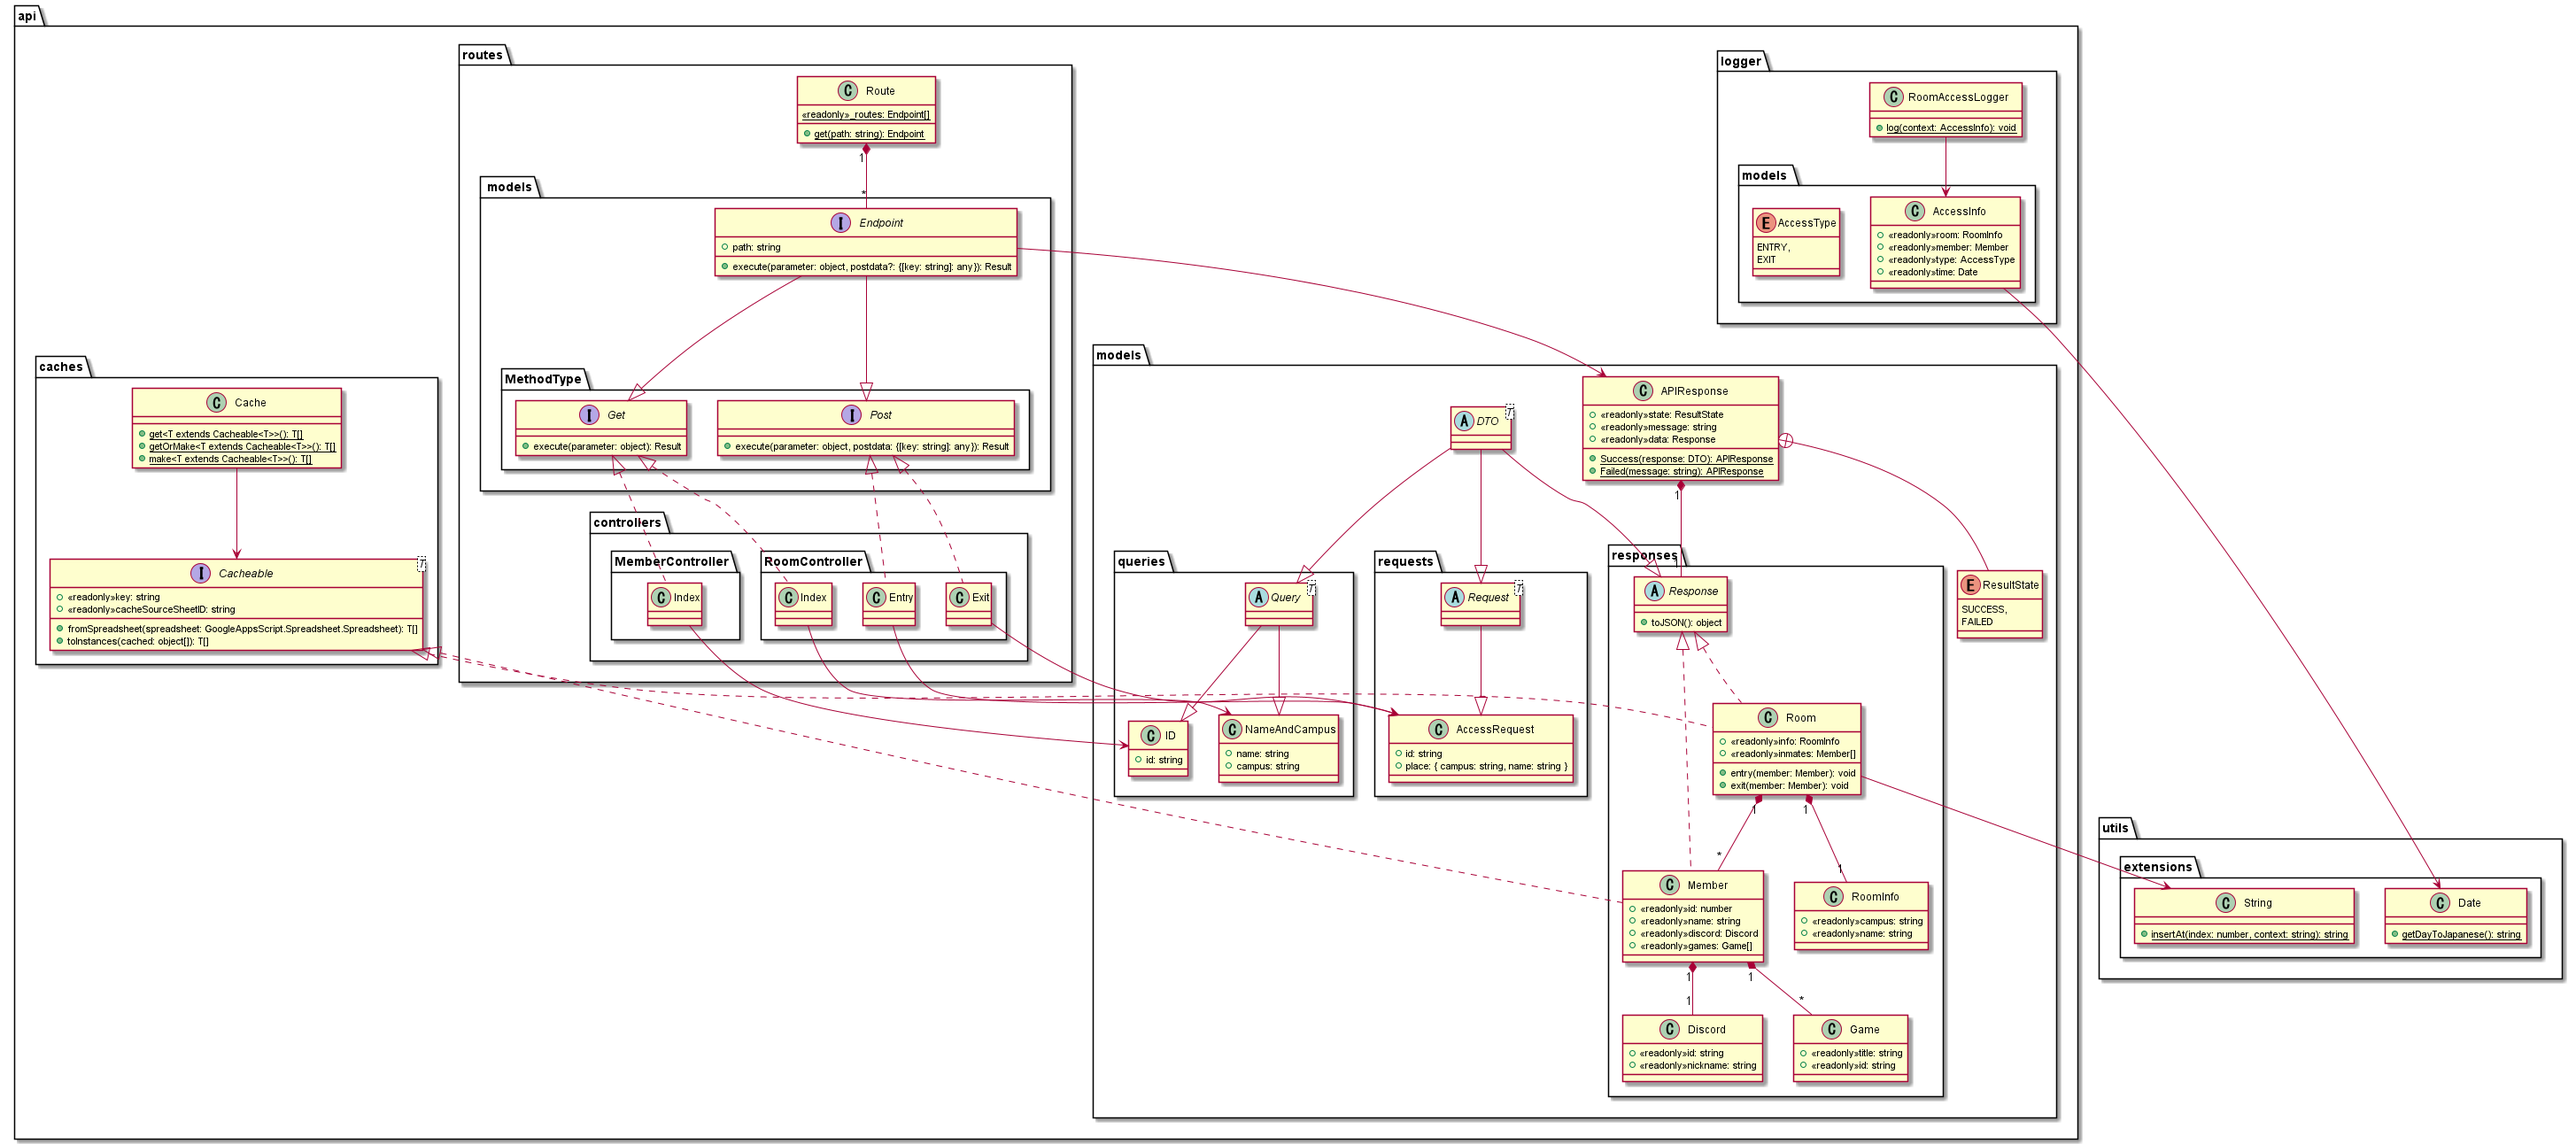
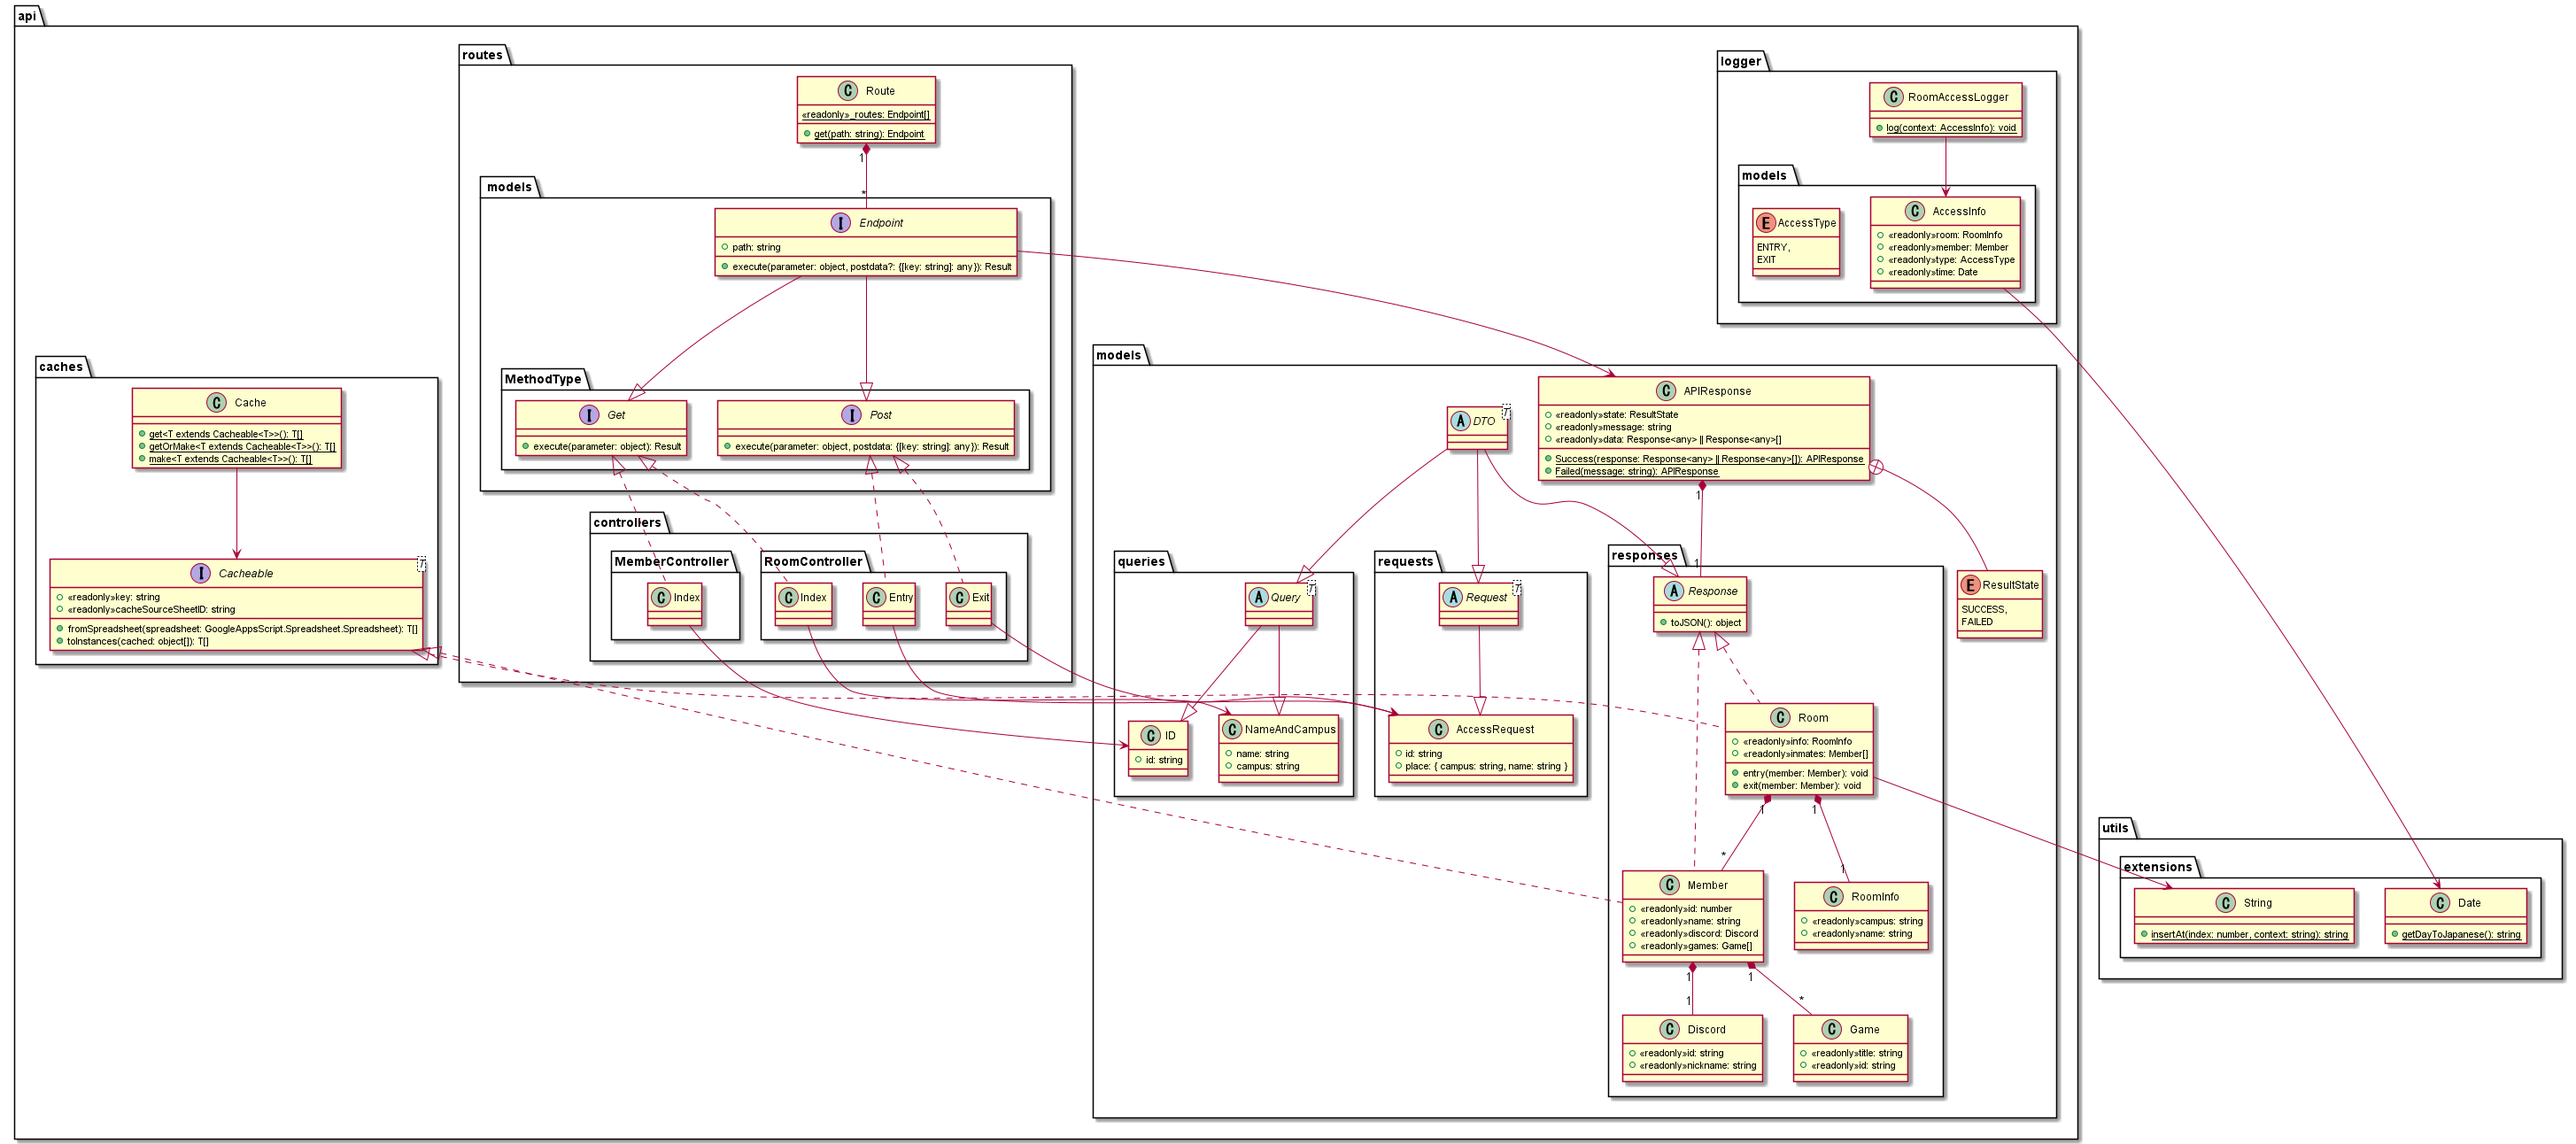
fix api response

diff --git a/src/api/routes/controllers/roomController.ts b/src/api/routes/controllers/roomController.ts
@@ -16,15 +16,15 @@ export namespace RoomController {
         }
 
         execute(parameter: object): APIResponse {
-            try {
-                const query = new NameAndCampus(parameter);
-                const room = Cache.getOrMake<Room>(Room).find((value) => {
-                    return value.info.name == query.name;
-                });
-                return APIResponse.Success(room);
-            } catch (e) {
-                return APIResponse.Failed("Room name not specified");
+            const cached = Cache.getOrMake<Room>(Room);
+            const query = new NameAndCampus(parameter);
+            const rooms = cached.filter((room) => {
+                return room.info.name == query.name || room.info.campus == query.campus
+            });
+            if (rooms.length) {
+                return APIResponse.Success(rooms);
             }
+            return APIResponse.Success(cached);
         }
     }
     export class Entry implements Post {
@@ -39,7 +39,7 @@ export namespace RoomController {
             const cached = Cache.getOrMake<Member>(Member);
             try {
                 const member = cached.find((member) => member.id?.toString() == req.id);
-                if (member) {
+                if (!member) {
                     return APIResponse.Failed(Utilities.formatString("No member with ID %s was found", req.id));
                 }
                 const info = new RoomInfo(req.place.campus, req.place.name);
@@ -71,7 +71,7 @@ export namespace RoomController {
             const cached = Cache.getOrMake<Member>(Member);
             try {
                 const member = cached.find((member) => member.id?.toString() == req.id);
-                if (member) {
+                if (!member) {
                     return APIResponse.Failed(Utilities.formatString("No member with ID %s was found", req.id));
                 }
                 const info = new RoomInfo(req.place.campus, req.place.name);
@@ -80,7 +80,7 @@ export namespace RoomController {
                     return room.info.campus == info.campus && room.info.name == info.name;
                 });
                 if (room.inmates.some((inmate) => inmate.id == member.id)) {
-                    room.entry(member);
+                    room.exit(member);
                     Cache.make<Room>(Room);
                     RoomAccessLogger.log(accessInfo);
                     return APIResponse.Success(null);

diff --git a/src/api/models/apiResponse.ts b/src/api/models/apiResponse.ts
@@ -8,15 +8,15 @@ enum ResultState {
 export class APIResponse {
   readonly state: ResultState;
   readonly message: string;
-  readonly data: Response<any>;
+  readonly data: Response<any> | Response<any>[];
   
-  constructor(state: ResultState, message: string, data: Response<any>) {
+  constructor(state: ResultState, message: string, data: Response<any> | Response<any>[]) {
     this.state = state;
     this.message = message;
     this.data = data;
   }
 
-  static Success(response: Response<any>): APIResponse {
+  static Success(response: Response<any> | Response<any>[]): APIResponse {
     return new APIResponse(ResultState.SUCCESS, "", response);
   }
 
